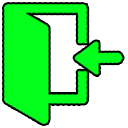
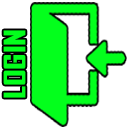
css ikono hobekuntzak

diff --git a/stylesPWS/style.css b/stylesPWS/style.css
@@ -38,7 +38,9 @@ a { text-decoration: none; }
 
 section > div				{padding: 20px;}
 header			{
-  background: #dbedff; text-align: center;
+  background: #dbedff; 
+  text-align: center;
+  vertical-align: middle;
 }
 nav	{
   background: #c1e1ff; 
@@ -258,10 +260,9 @@ footer img:hover {
 
 @media only screen and (min-width:767px) {
 	header img.botoia {
-		width:56px;
-    height: 56px;
+		width:76px;
+    height: 76px;
 	  padding-right:16px;
-	  padding-top:8px;
 	}
   header img.botoia2 {
     width:56px;
@@ -278,7 +279,7 @@ footer img:hover {
 header img.botoia { /*kendu txikitzen den einean*/
   float:right;
   opacity:0.5;
-  margin-top:22px;
+  margin-top:12px;
 }
 header img.botoia2 { /*kendu txikitzen den einean*/
   float:right;
